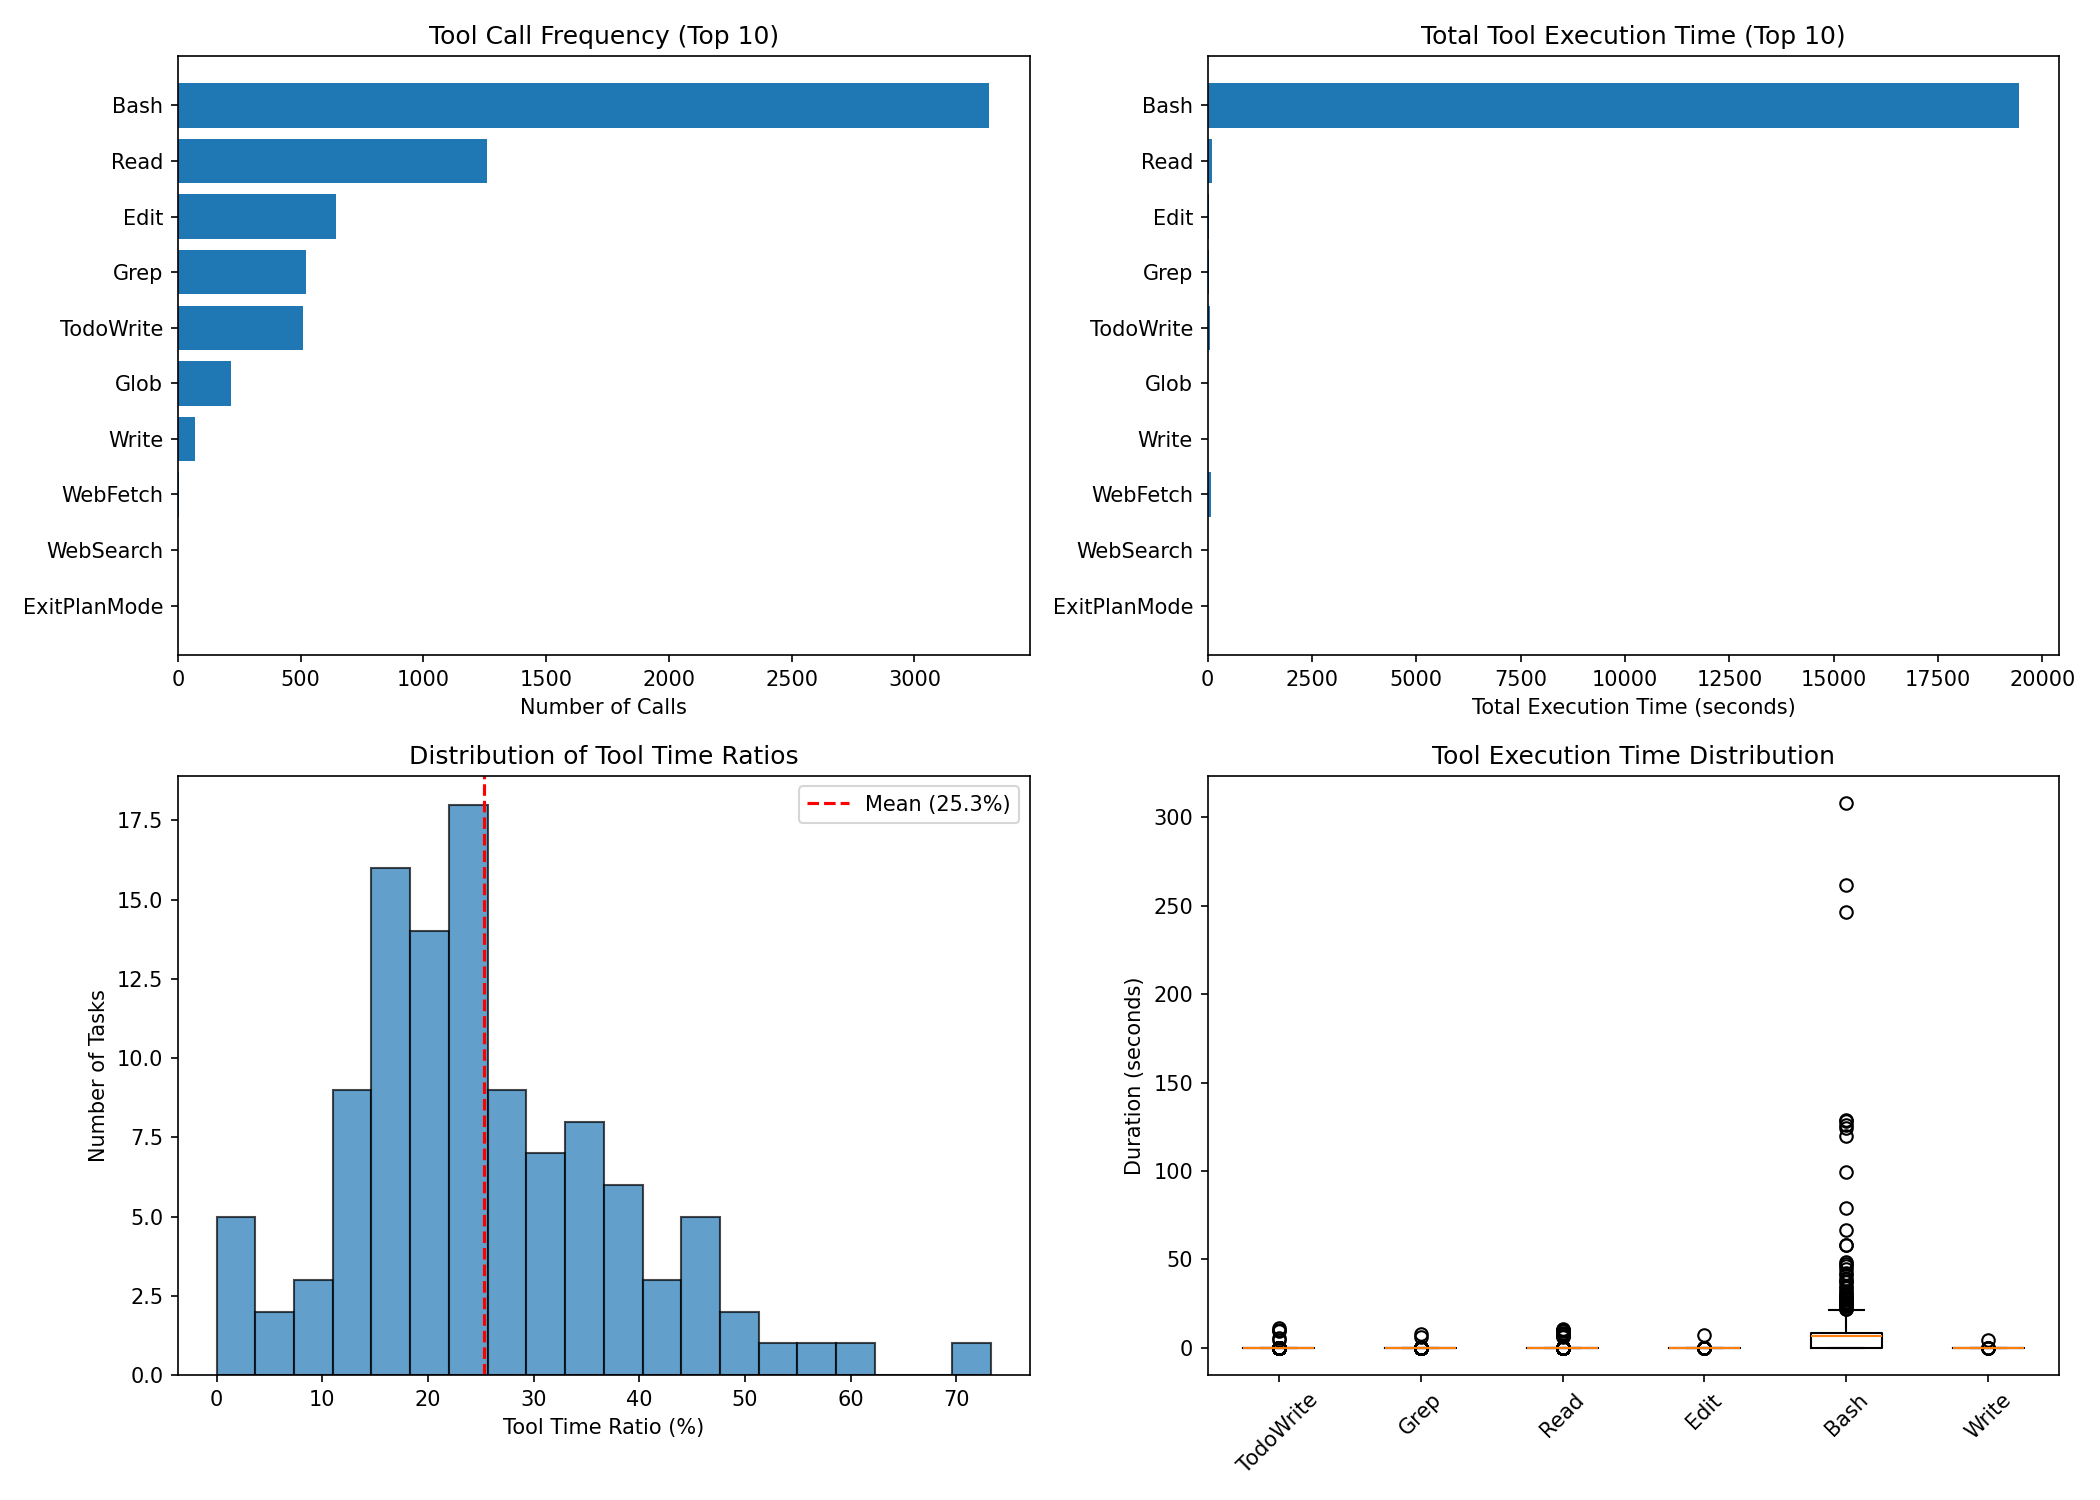
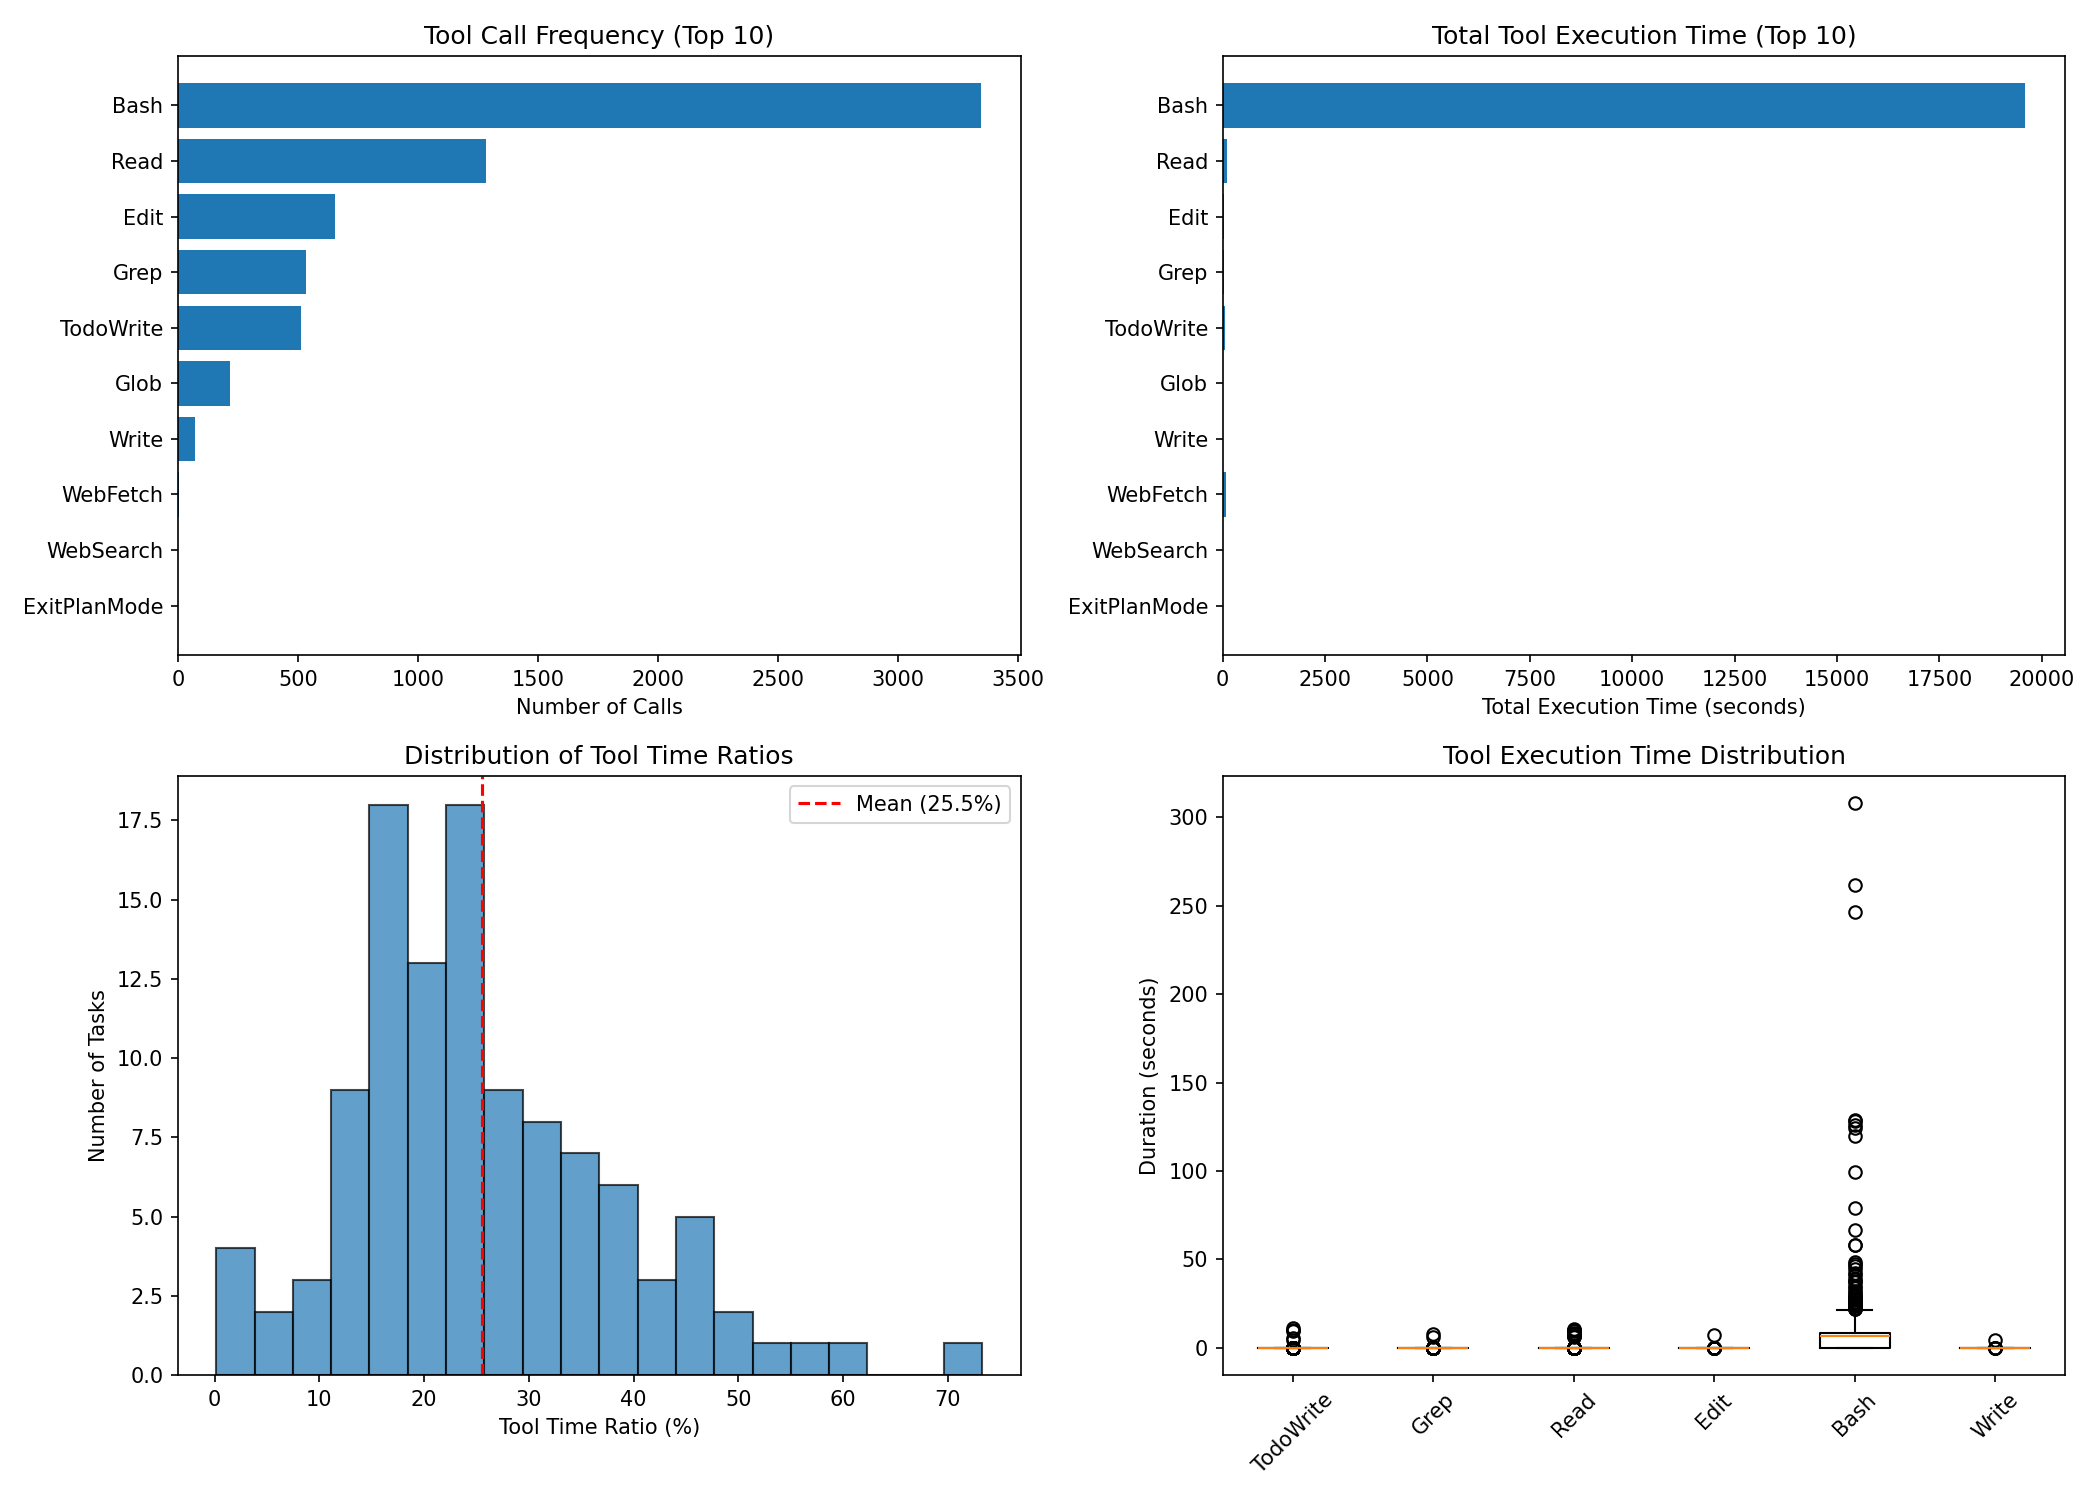
Update resource timeseries visualizations and reports: adjust burst event line styles for clarity, refresh report generation timestamps, and enhance characterization documentation with comparative analysis of Haiku and GLM resource usage.

diff --git a/analysis/analyze_swebench_data.py b/analysis/analyze_swebench_data.py
@@ -314,9 +314,23 @@ def load_task_data(task_dir: Path, task_name: str, task_info: Dict,
     mem_summary = summary.get("memory_mb", {})
     cpu_summary = summary.get("cpu_percent", {})
 
-    # Extract tool times from trace
+    # Extract tool times from trace, fall back to tool_calls.json
     tool_calls_dict = extract_tool_times_from_trace(trace_records)
     tool_calls = list(tool_calls_dict.values())
+    if not tool_calls:
+        tc_json = load_json(attempt_dir / "tool_calls.json")
+        if tc_json and isinstance(tc_json, list):
+            for entry in tc_json:
+                st = parse_iso(entry.get("timestamp"))
+                et = parse_iso(entry.get("end_timestamp"))
+                dur = (et - st).total_seconds() if st and et else 0.0
+                tool_calls.append(ToolCall(
+                    tool=entry.get("tool", "Unknown"),
+                    tool_id=entry.get("tool_use_id", ""),
+                    start_time=st,
+                    end_time=et,
+                    duration_seconds=max(0, dur),
+                ))
 
     # Detect bursts
     bursts = detect_bursts(samples)
@@ -500,14 +514,25 @@ def _plot_dynamics(tasks: Dict[str, TaskData], results: Dict):
         ax1.plot(times, cpu_vals, 'b-', linewidth=1, label='CPU %')
         ax1.set_ylabel('CPU Usage (%)', fontsize=15)
         ax1.set_title(f'Resource Usage Over Time - {sample_task.name[:50]}', fontsize=16)
-        ax1.legend(fontsize=13)
         ax1.tick_params(axis='both', labelsize=13)
         ax1.grid(True, alpha=0.3)
 
-        # Mark burst events
-        for burst in sample_task.bursts:
-            burst_time = burst.timestamp - samples[0].epoch
-            ax1.axvline(x=burst_time, color='r', linestyle='--', alpha=0.5)
+        # Mark tool call intervals as shaded regions
+        t0_epoch = samples[0].epoch
+        tool_label_added = False
+        for tc in sample_task.tool_calls:
+            if tc.start_time is None:
+                continue
+            tc_start = tc.start_time.timestamp() - t0_epoch
+            tc_end = (tc.end_time.timestamp() - t0_epoch) if tc.end_time else tc_start
+            lbl = 'Tool Call' if not tool_label_added else None
+            ax1.axvspan(tc_start, max(tc_end, tc_start + 0.5),
+                        color='r', alpha=0.10, label=lbl)
+            ax2.axvspan(tc_start, max(tc_end, tc_start + 0.5),
+                        color='r', alpha=0.10)
+            tool_label_added = True
+
+        ax1.legend(fontsize=13)
 
         ax2.plot(times, mem_vals, 'g-', linewidth=1, label='Memory (MB)')
         ax2.set_xlabel('Time (seconds)', fontsize=15)
@@ -515,10 +540,6 @@ def _plot_dynamics(tasks: Dict[str, TaskData], results: Dict):
         ax2.legend(fontsize=13)
         ax2.tick_params(axis='both', labelsize=13)
         ax2.grid(True, alpha=0.3)
-
-        for burst in sample_task.bursts:
-            burst_time = burst.timestamp - samples[0].epoch
-            ax2.axvline(x=burst_time, color='r', linestyle='--', alpha=0.5)
 
     plt.tight_layout()
     plt.savefig(OUTPUT_DIR / "rq1_resource_timeseries.png", dpi=150)

diff --git a/analysis/qwen3_figures/report.md b/analysis/qwen3_figures/report.md
@@ -1,6 +1,6 @@
 # AgentCgroup SWE-Bench Experiment Analysis Report (qwen3)
 
-Generated: 2026-02-07 15:34:51
+Generated: 2026-02-07 16:32:41
 
 Data source: `/home/yunwei37/workspace/agentcgroup/experiments/all_images_local`
 
@@ -60,18 +60,18 @@ Total tasks analyzed: 111
 
 | Tool | Call Count | Total Time (s) | Avg Time (s) |
 |------|------------|----------------|--------------|
-| Bash | 3304 | 19434.14 | 5.88 |
-| Read | 1257 | 99.85 | 0.08 |
+| Bash | 3343 | 19597.66 | 5.86 |
+| Read | 1282 | 100.27 | 0.08 |
 | WebFetch | 5 | 77.94 | 15.59 |
 | Task | 1 | 67.47 | 67.47 |
-| TodoWrite | 510 | 50.44 | 0.10 |
-| Grep | 522 | 27.96 | 0.05 |
-| Edit | 643 | 26.85 | 0.04 |
+| TodoWrite | 514 | 50.50 | 0.10 |
+| Grep | 534 | 28.45 | 0.05 |
+| Edit | 654 | 27.10 | 0.04 |
 | Glob | 217 | 14.49 | 0.07 |
 | WebSearch | 2 | 13.59 | 6.79 |
 | Write | 71 | 6.82 | 0.10 |
 
-**Tool Time Ratio**: Mean 25.3%, Median 23.1%
+**Tool Time Ratio**: Mean 25.5%, Median 23.1%
 
 ![Tool Analysis](rq3_tool_analysis.png)
 

diff --git a/analysis/haiku_figures/report.md b/analysis/haiku_figures/report.md
@@ -1,6 +1,6 @@
 # AgentCgroup SWE-Bench Experiment Analysis Report (haiku)
 
-Generated: 2026-02-07 15:34:48
+Generated: 2026-02-07 16:32:39
 
 Data source: `/home/yunwei37/workspace/agentcgroup/experiments/all_images_haiku`
 

diff --git a/analysis/haiku_vs_qwen_report.md b/analysis/haiku_vs_qwen_report.md
@@ -1,6 +1,6 @@
 # Haiku vs Local Model (GLM) Comparison Report
 
-**Generated**: 2026-02-07 15:34:55
+**Generated**: 2026-02-07 16:32:46
 
 ## Overview
 
